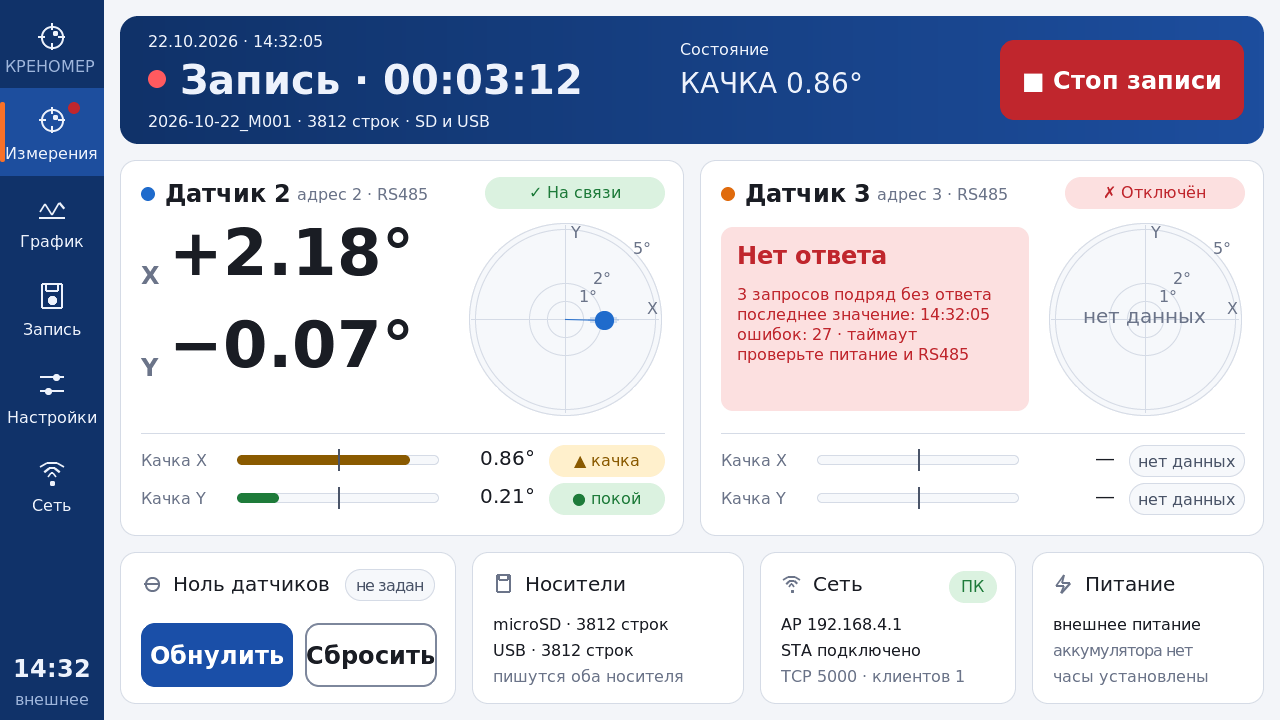
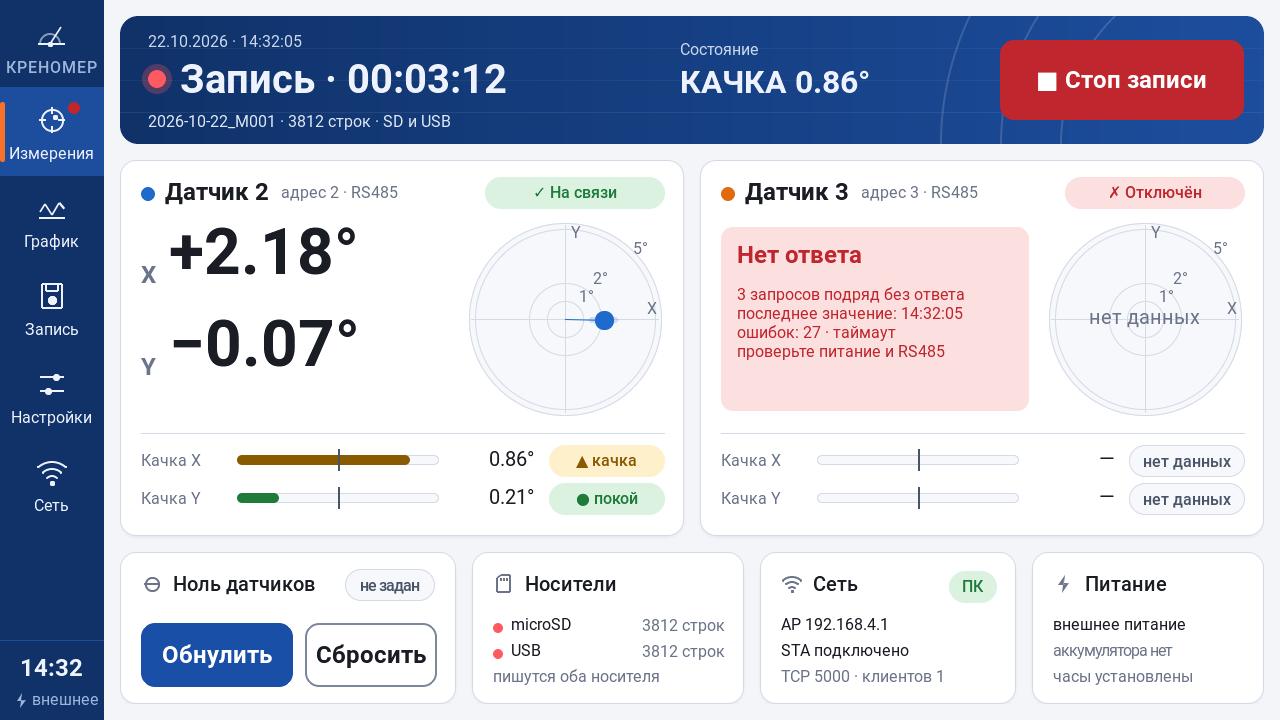
Tab5 1.6.1: проверить Roboto-интерфейс и пересобрать оба профиля P4

diff --git a/tab5/main/tab5_ui.c b/tab5/main/tab5_ui.c
@@ -303,7 +303,8 @@ static void chart_refresh(void){
     if(ticks<3){u.ymin-=tick;u.ymax+=tick;ticks+=2;}
     lv_chart_set_point_count(u.chart,n);lv_chart_set_axis_range(u.chart,LV_CHART_AXIS_PRIMARY_Y,u.ymin,u.ymax);lv_chart_set_div_line_count(u.chart,ticks,0);
     for(unsigned k=0;k<4;k++){
-        for(uint32_t c=1;c<lv_obj_get_child_count(u.legend[k]);c++)lv_obj_set_style_bg_color(lv_obj_get_child(u.legend[k],c),lv_color_hex(u.sensor[k/2]),0);lv_obj_set_style_bg_color(lv_obj_get_child(lv_obj_get_parent(u.stats[k]),0),lv_color_hex(u.sensor[k/2]),0);lv_chart_set_series_ext_y_array(u.chart,u.series[k],u.plotted[k]);lv_chart_set_series_color(u.chart,u.series[k],lv_color_hex(u.sensor[k/2]));lv_chart_hide_series(u.chart,u.series[k],!u.visible[k]);
+        for(uint32_t c=1;c<lv_obj_get_child_count(u.legend[k]);c++)lv_obj_set_style_bg_color(lv_obj_get_child(u.legend[k],c),lv_color_hex(u.sensor[k/2]),0);
+        lv_obj_set_style_bg_color(lv_obj_get_child(lv_obj_get_parent(u.stats[k]),0),lv_color_hex(u.sensor[k/2]),0);lv_chart_set_series_ext_y_array(u.chart,u.series[k],u.plotted[k]);lv_chart_set_series_color(u.chart,u.series[k],lv_color_hex(u.sensor[k/2]));lv_chart_hide_series(u.chart,u.series[k],!u.visible[k]);
         int32_t mn=0,mx=0,last=LV_CHART_POINT_NONE;bool found=false;
         for(unsigned i=0;i<n;i++)if(u.plotted[k][i]!=LV_CHART_POINT_NONE){int32_t v=u.plotted[k][i];if(!found)mn=mx=v;found=true;if(v<mn)mn=v;if(v>mx)mx=v;}
         last=u.plotted[k][n-1];char s[120];if(!u.visible[k])snprintf(s,sizeof(s),"скрыт");else if(last!=LV_CHART_POINT_NONE)snprintf(s,sizeof(s),"%s%.2f°",last<0?"−":"+",fabs(last/100.0));else snprintf(s,sizeof(s),"—");text(u.stats[k],s);
@@ -484,7 +485,8 @@ static void update_measure(void){
     if(nonzero)snprintf(b,sizeof(b),"задан %s",u.zero_time_known?u.zero_time:"—");else snprintf(b,sizeof(b),"не задан");text(u.zero_chip,b);role(u.zero_chip,nonzero?INFO:NEUTRAL);
     const tab5_ui_medium_t *media[]={&s->sd,&s->usb};for(unsigned i=0;i<2;i++){const tab5_ui_medium_t *m=media[i];text(u.storage_lines[i],i?"USB":"microSD");
         if(m->known&&m->recording)snprintf(b,sizeof(b),"%" PRIu64 " строк",m->written);else if(m->known&&m->mounted&&!m->failed&&s->capacity[i].known)snprintf(b,sizeof(b),"готов · %.1f ГБ",s->capacity[i].free_bytes/1073741824.);
-        else snprintf(b,sizeof(b),"%s",!m->known?"данных нет":m->failed?"ошибка":m->mounted?"готов":"не подключён");text(u.storage_detail[i],b);
+        else snprintf(b,sizeof(b),"%s",!m->known?"данных нет":m->failed?"ошибка":m->mounted?"готов":"не подключён");
+        text(u.storage_detail[i],b);
         lv_obj_set_style_bg_color(u.storage_dot[i],lv_color_hex(!m->known?u.muted:m->failed?u.err:m->recording?0xFF5A5F:m->mounted?u.ok:u.muted),0);}
     text(u.storage_lines[2],s->sd.recording&&s->usb.recording?"пишутся оба носителя":s->sd.recording?"пишется только SD":s->usb.recording?"пишется только USB":"запись выключена");
     snprintf(b,sizeof(b),"AP %s",s->link.known&&s->link.ap_started?s->link.ap_ip:"—");text(u.network_lines[0],b);text(u.network_lines[1],!s->link.known?"STA —":s->link.sta_connected?"STA подключено":"STA отключено");if(s->tcp_clients_known)snprintf(b,sizeof(b),"TCP %u · клиентов %u",s->link.tcp_port,s->tcp_clients);else snprintf(b,sizeof(b),"TCP %u · клиентов —",s->link.tcp_port);text(u.network_lines[2],b);hide(u.pc_chip,!s->tcp_clients_known||!s->tcp_clients);

diff --git a/tab5/tests/test_ui.c b/tab5/tests/test_ui.c
@@ -104,7 +104,7 @@ int main(int argc,char **argv){
     touch=lv_indev_create();lv_indev_set_type(touch,LV_INDEV_TYPE_POINTER);lv_indev_set_read_cb(touch,read_touch);
     for(unsigned theme=0;theme<2;theme++){
         tab5_ui_init(action,NULL);tab5_ui_state_t s={0};tab5_measure_config_default(&s.measurement.config);s.measurement.config.frequency_hz=20;s.measurement.config.gap_ms=20;s.measurement.config.alpha=.2;s.measurement.config.roll_calm_deg=.5;s.measurement.config.roll_rate_hz=2;s.measurement.config.roll_hysteresis_deg=.1;
-        s.light_theme=theme;s.now_known=true;s.now_us=700000000;s.datetime_known=true;s.datetime=(tab5_ui_datetime_t){2026,10,22,14,32,5};s.clock=(tab5_ui_clock_t){.known=true,.time_valid=true};strcpy(s.clock.datetime,"22.10.2026 · 14:32:05");strcpy(s.panel,"ST7123 · определён автоматически");strcpy(s.firmware,"1.6.0-esp32");
+        s.light_theme=theme;s.now_known=true;s.now_us=700000000;s.datetime_known=true;s.datetime=(tab5_ui_datetime_t){2026,10,22,14,32,5};s.clock=(tab5_ui_clock_t){.known=true,.time_valid=true};strcpy(s.clock.datetime,"22.10.2026 · 14:32:05");strcpy(s.panel,"ST7123 · определён автоматически");strcpy(s.firmware,"1.6.1-esp32");
         s.sd=(tab5_ui_medium_t){.known=true,.mounted=true};s.usb=(tab5_ui_medium_t){.known=true};s.tcp_clients_known=true;s.tcp_clients=1;
         s.link=(tab5_ui_link_t){.known=true,.ap_started=true,.sta_connected=true,.tcp_port=5000};strcpy(s.link.ap_ip,"192.168.4.1");strcpy(s.link.sta_ip,"10.20.4.117");
         s.network=(tab5_ui_network_t){.ap_enabled=true,.sta_enabled=true};strcpy(s.network.ap_ssid,"KRENOMER-7F3A");strcpy(s.network.sta_ssid,"SAFU-Lab");strcpy(s.network.ap_password,"test-pass-123");strcpy(s.network.sta_password,"secret-pass-123");

diff --git a/tab5/tests/test_services.c b/tab5/tests/test_services.c
@@ -48,6 +48,7 @@ int main(void){
  strcpy(test_current_version,"2.0.0-esp32");CHECK(!version_ok("1.99.99-esp32"));CHECK(version_ok("2.0.0-esp32"));
  CHECK(version_ok("2.0.1-esp32"));strcpy(test_current_version,"1.5.0-esp32");
  strcpy(test_current_version,"1.6.0-esp32");CHECK(!version_ok("1.5.0-esp32"));CHECK(version_ok("1.6.0-esp32"));
+ strcpy(test_current_version,"1.6.1-esp32");CHECK(!version_ok("1.6.0-esp32"));CHECK(version_ok("1.6.1-esp32"));
  strcpy(test_current_version,"1.5.0-esp32");
  begin();CHECK(tab5_services_record_start("blocked")!=0);chunk(0,256);CHECK(ota.offset==256);size_t written=test_flash_offset;chunk(0,256);CHECK(ota.offset==256 && written==test_flash_offset);
  line(2,"ota abort");CHECK(ota.active);tab5_services_disconnect(2);CHECK(ota.active);tab5_services_disconnect(1);CHECK(!ota.active && !test_boot_selected);

diff --git a/tab5/UPDATE_1.6.1_2026-10-22.md b/tab5/UPDATE_1.6.1_2026-10-22.md
@@ -1,0 +1,66 @@
+# Tab5 1.6.1-esp32 — проверка Roboto-интерфейса, 22.10.2026
+
+Дизайн уже был закоммичен в **f085c29** поверх a7a18e5: Roboto Regular/Medium/
+Bold с лицензией Apache2.0, DejaVu для отсутствующих знаков, заголовки32px,
+декор баннера, пиктограммы, индикаторы носителей, пунктир легенды и выбор темы.
+Дизайн сохранён. Повторного или пустого коммита интерфейса не создавалось.
+
+## Необходимые изменения и происхождение сборок
+
+- Версия в PROJECT_VER повышена до **1.6.1-esp32**, чтобы отличать новый комплект
+  от ранее переданного1.6.0. Native fixture и версия regression обновлены.
+- Строгая сборка IDF нашла2 `-Werror=misleading-indentation` в новом UI. Разделены
+  две строки операторов; C-токены и поведение относительноf085c29 неизменны.
+- Исходные Roboto TTF, генератор и все8 generated fonts побайтно соответствуют
+  f085c29. Математика, storage/OTA, main, PC production и STM32 не менялись.
+- Обе прошивки реально пересобраны из текущего дерева. В ELF обеих есть новые
+  font_tab5_16m/20m/32/64 и нет старого28; descriptor/manifest/actual-image test
+  читают1.6.1-esp32. Это не старые a7a18e5 бинарники с переименованным файлом.
+- [Машинный provenance с SHA исходников и частей](docs/BUILD_1.6.1_2026-10-22.json).
+
+## Готовые комплекты
+
+| Silicon P4 | Каталог от корня форка | Размер app, байт | SHA-256 app |
+|---|---|---:|---|
[2 lines of base64/hex data omitted]
+
+Каждый package включает4 factory-части с прежними адресами, JSON и проверенный
+SHA256SUMS.txt. Два диапазона silicon получены отдельными IDF-сборками,
+заголовки вручную не исправлялись. Все3 профиля панели сохранены в каждом.
+
+## Реальные выполненные проверки
+
+- Настоящий offscreen LVGL: **76 сценариев/кадров,30 callbacks,0 geometry failures**.
+  Проверены обе темы, крупные±89.99°, steppers/удержание, число/календарь,
+  RU/EN-клавиатуры, confirmations, негативный backend/NVS ack и retry.
+- Все8 шрифтов:210 glyphs в16/16m/20/20m/24/32/40,18glyphs в64; cmap PASS.
+- Pure graph:14 групп/**44661** проверка; production BSP init-loop/guards/
+  mutations PASS; measurement PASS; календарь20; package4/4.
+- Сервисы:**234848** assertions, startup86; PC↔production C service bridge77/77.
+  Добавлено доказательство отказа downgrade1.6.1→1.6.0.
+- Готовые файлы: **28/28** запусков x64/x86×2package: полная OTA
+  1.5.0→**1.6.1** с передачей всех байтов, проверкой reboot/boot confirmation,
+  несовместимого silicon до begin; recovery manifest; ROM100/300/301/302 и302XPD_ON.
+- PC x64/x86:8/8 ctest на каждой архитектуре (журналы .tools/pc-161-*.log).
+  Исполняемые production файлы PC1.8.2 не изменены.
+- Parent отдельно принял внешний вид и выполнил10/10 pixel boundary проверок;
+  этот неизменившийся layout повторно не измерялся здесь.
+
+## Новые снимки
+
+24 curated снимка обеих тем в [docs/img](docs/img/) обновлены из настоящего
+display flush `tests/output_ui/roboto161/`, версия fixture1.6.1. Это LVGL,
+не PNG из HTML. [Измерения](docs/img/measure_light.png),
+[тёмная тема](docs/img/measure_dark.png), [график](docs/img/chart_dark.png),
+[настройки](docs/img/settings_light.png), [сеть](docs/img/network_light.png).
+График использует явно синтетические timestamped samples с пропуском.
+
+## Ограничения
+
+Не открывались физические COM/USB, GUI и Telegram; не было push или flash.
+Эти тесты не подтверждают реальную панель/тач, конкретный P4/C6, питание,
+работу двух носителей, power-cut/rollback или Windows7 на аппаратном ПК.
+Capacity/history/peer backend по-прежнему неизвестны; новый дизайн не добавляет
+сканирования файлов и не означает, что после подключения появится история.
+Упаковку и передачу выполняет parent; ранее отправленный1.6.0 архив не менялся.

diff --git a/tab5/STATUS.md b/tab5/STATUS.md
@@ -3,10 +3,10 @@
 ## Итог 22.10.2026
 
 Рабочая копия `C:/Projects/ClaudeExp/diplom_project_tab5`, ветка `tab5-esp32`.
-Текущая firmware **1.6.0-esp32**; программа ПК **1.8.2**, production EXE неизменны.
-Предоставленный дизайн перенесён в настоящий LVGL, обе темы проверены.
+Текущая firmware **1.6.1-esp32**; программа ПК **1.8.2**, production EXE неизменны.
+Roboto-интерфейс f085c29 сохранён; обе темы и новые готовые образы перепроверены.
 Все известные дефекты текущей итерации закрыты; промежуточные отвергнутые
-снимки не являются итогом. [Полный отчёт](UPDATE_2026-10-22.md).
+снимки не являются итогом. [Полный отчёт](UPDATE_1.6.1_2026-10-22.md).
 
 Готовые независимые IDF-комплекты: `build/package`(silicon100–199) и
 `build-rev3/package`(300–399). В каждом автоматический выбор ST7121/ST7123/

diff --git a/tab5/UI_REDESIGN.md b/tab5/UI_REDESIGN.md
@@ -1,5 +1,7 @@
 # Tab5 UI: предоставленный дизайн, итог 22.10.2026
 
+Исторический срез1.6.0; актуальная проверка Roboto/1.6.1 — [новый отчёт](UPDATE_1.6.1_2026-10-22.md).
+
 Firmware1.6.0-esp32, база d49218b. Перенесён именно предоставленный
 [SPEC](design/SPEC.md), [HTML](design/mockup.html), [14 эталонных PNG](design/png/).
 Ранее отвергнутый dashboard и его37-кадровый отчёт не являются этим результатом.

diff --git a/tab5/UPDATE_2026-10-22.md b/tab5/UPDATE_2026-10-22.md
@@ -1,5 +1,7 @@
 # Tab5 1.6.0-esp32: обновление 22.10.2026
 
+Исторический срез1.6.0; актуальная проверка Roboto/1.6.1 — [новый отчёт](UPDATE_1.6.1_2026-10-22.md).
+
 Готовый локальный результат от `d49218b`. Перенесён предоставленный дизайн,
 обе прошивки заново собраны ESP-IDF 5.5.2 после завершения UI. Публикации,
 обращений к физическим COM/USB и аппаратного flash не было.
